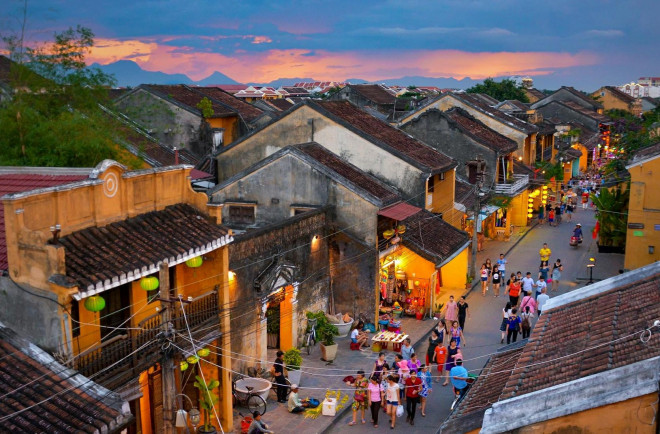
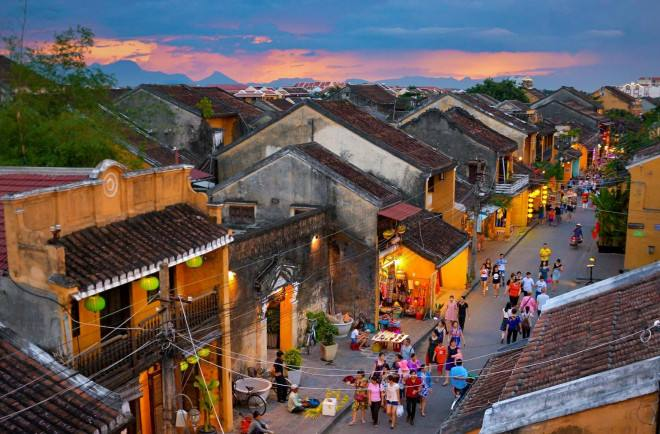
Speed: static hero text before typing starts, lighter word animation, content-visibility below the fold, compress images (~770KB saved)
Claude-Session: https://claude.ai/code/session_01NiZNzLZxJXTFvuqzfUK7wq

diff --git a/public/js/main.js b/public/js/main.js
@@ -464,7 +464,23 @@
 		var charIndex = 0;
 		var deleting = false;
 
-		(function type() {
+		/* Chữ ở banner là chữ tĩnh lúc tải (giúp LCP nhanh, không đổi bố cục khi đang đo); chỉ bắt đầu "gõ" khi người dùng tương tác hoặc sau 6 giây */
+		var started = false;
+		function startTyping() {
+			if (started) {
+				return;
+			}
+			started = true;
+			charIndex = words[0].length;
+			deleting = true;
+			type();
+		}
+		['pointerdown', 'keydown', 'scroll', 'touchstart'].forEach(function (ev) {
+			window.addEventListener(ev, startTyping, { once: true, passive: true });
+		});
+		setTimeout(startTyping, 6000);
+
+		function type() {
 			var word = words[wordIndex % words.length] || '';
 			var delay = deleting ? 45 : 110;
 
@@ -481,7 +497,7 @@
 			}
 
 			setTimeout(type, document.hidden ? 1000 : delay);
-		})();
+		}
 	}
 
 	/* ---------- Đèn lồng bay ở banner ---------- */

diff --git a/public/css/style.css b/public/css/style.css
@@ -989,9 +989,7 @@ form.ct select:focus {
 
 @keyframes word {
 	from {
-		opacity: 0;
-		transform: translateY(70%) rotate(5deg);
-		filter: blur(8px);
+		transform: translateY(40%);
 	}
 }
 
@@ -1027,8 +1025,8 @@ form.ct select:focus {
 
 .hero h1 .w {
 	display: inline-block;
-	animation: word .9s cubic-bezier(.2, .7, .2, 1) both;
-	animation-delay: calc(var(--i)*.1s + .2s);
+	animation: word .5s cubic-bezier(.2, .7, .2, 1) both;
+	animation-delay: calc(var(--i)*.04s);
 }
 
 .btn {
@@ -2543,4 +2541,12 @@ body {
 
 .acc-sec.acc-closing summary .ms {
 	transform: rotate(0deg);
+}
+
+/* Các khối dưới màn hình đầu: trình duyệt chỉ tính bố cục khi sắp cuộn tới (giảm việc lúc tải trang) */
+body > section:not(.hero),
+body > footer,
+main > section:not(.hero) {
+	content-visibility: auto;
+	contain-intrinsic-size: auto 700px;
 }

diff --git a/public/index.html b/public/index.html
@@ -48,7 +48,7 @@
 		 <span class="w" style="--i:4">
 			tại
 		 </span>
-		 <b id="typed"></b>
+		 <b id="typed">Hạ Long</b>
 		</h1>
 		<p class="lead">
 		 Từ vịnh xanh ngọc bích đến phố cổ lung linh đèn lồng, mỗi chuyến đi là một câu chuyện riêng.
